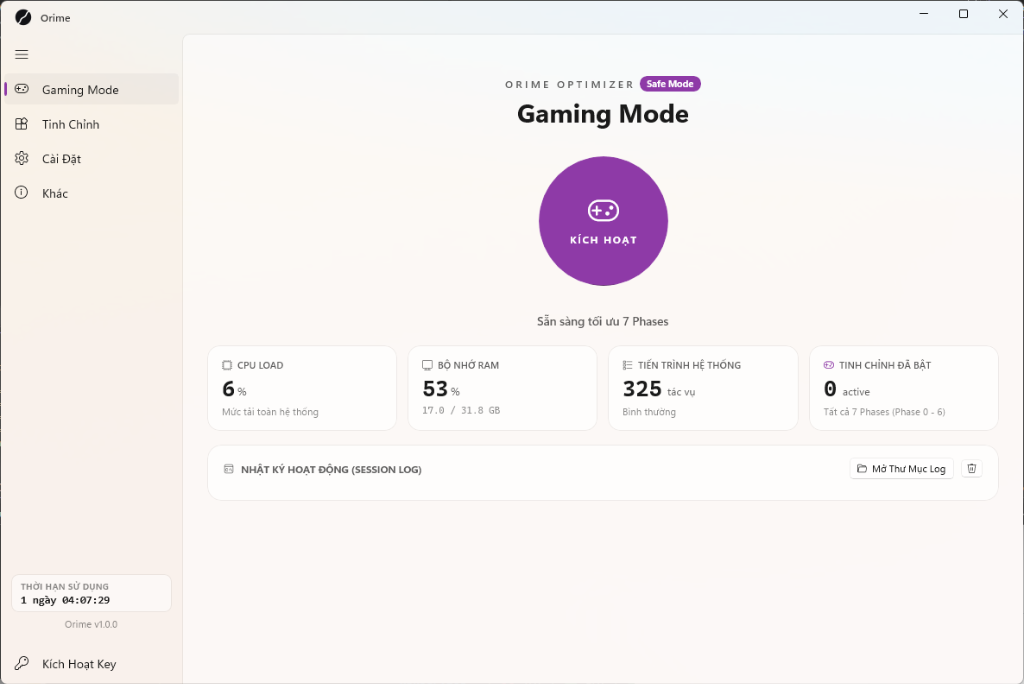
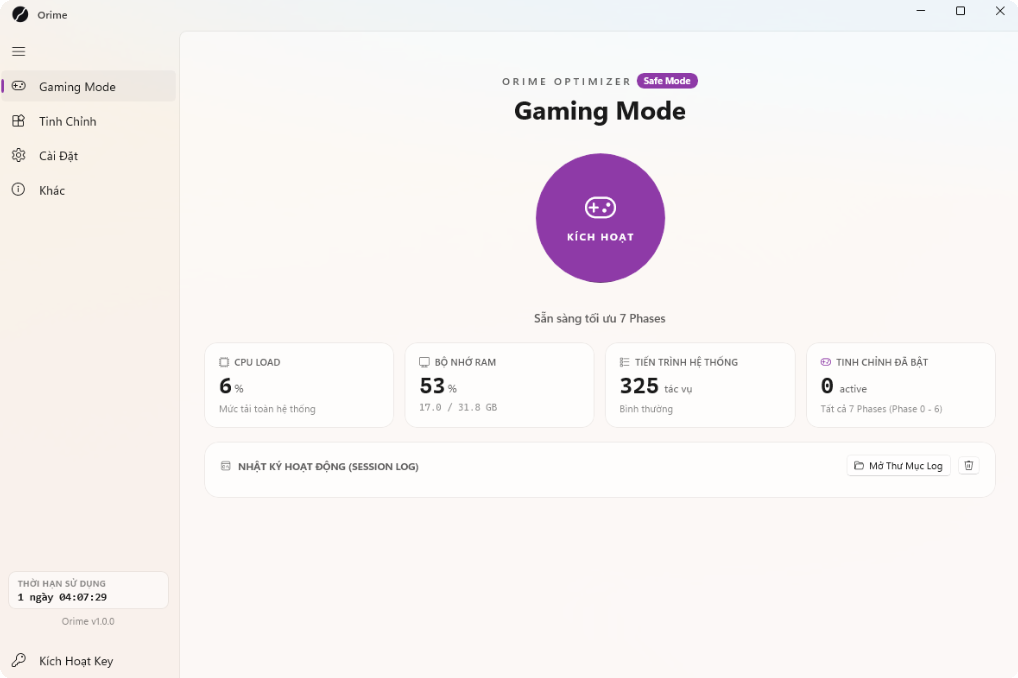
Polish screenshots (crop borders) and rewrite humanized bilingual README

diff --git a/README_VIETNAMESE.md b/README_VIETNAMESE.md
@@ -1,76 +1,74 @@
 <div align="center">
 
-# ⚡ Orime Optimizer
+# Orime Optimizer
 
-**Bộ Công Cụ Tối Ưu Hóa Hiệu Năng Windows & Gaming Chuyên Nghiệp**
+**Ứng dụng tối ưu Windows và giảm độ trễ khi chơi game, viết bằng WinUI 3 & .NET 10.**
 
-[![Nền tảng](https://img.shields.io/badge/Nền%20tảng-Windows%2010%20%7C%2011%20x64-blue?style=for-the-badge&logo=windows)](https://github.com/Nahvine/Orime-Release)
-[![Công nghệ](https://img.shields.io/badge/Công%20nghệ-WinUI%203%20%7C%20.NET%2010-purple?style=for-the-badge&logo=dotnet)](https://github.com/Nahvine/Orime-Release)
-[![Giao diện](https://img.shields.io/badge/Giao%20diện-Fluent%20Design%20System-0078D4?style=for-the-badge&logo=microsoft)](https://github.com/Nahvine/Orime-Release)
+[![Nền tảng](https://img.shields.io/badge/Windows-10%20%7C%2011%20(64--bit)-0078D4?style=flat-square&logo=windows)](https://github.com/Nahvine/Orime-Release)
+[![Công nghệ](https://img.shields.io/badge/WinUI%203-.NET%2010-512BD4?style=flat-square&logo=dotnet)](https://github.com/Nahvine/Orime-Release)
+[![Bản quyền](https://img.shields.io/badge/Bản%20quyền-Proprietary-gray?style=flat-square)](https://github.com/Nahvine/Orime-Release)
 
-[**🌐 Trang Chủ Chính Thức**](https://orime.osteup.io.vn) • [**📖 English Version**](README.md) • [**📦 Tải Bản Release Mới Nhất**](https://github.com/Nahvine/Orime-Release/releases)
+[**Trang Chủ**](https://orime.osteup.io.vn) • [**English README**](README.md) • [**Tải Bản Mới Nhất**](https://github.com/Nahvine/Orime-Release/releases)
 
 <br/>
 
-<img src="assets/gaming_mode_preview.png" alt="Orime Gaming Mode Giao Diện" width="850" style="border-radius: 12px; box-shadow: 0 10px 30px rgba(0,0,0,0.15);" />
+<img src="assets/gaming_mode_preview.png" alt="Giao diện Orime Gaming Mode" width="850" />
 
 </div>
 
 ---
 
-## 🌟 Giới Thiệu
+## Vì sao nên dùng Orime?
 
-**Orime** là ứng dụng tối ưu hóa Windows và Gaming hiện đại được xây dựng hoàn toàn bằng **WinUI 3 (Windows App SDK)** và **.NET 10**. Với kiến trúc an toàn 2 tầng và nhật ký giao dịch (Transaction Journal), Orime giúp khai thác tối đa FPS, triệt tiêu độ trễ chuột/bàn phím (Kernel Timer **0.5ms**), tự động thu hồi Gigabyte RAM rác và có khả năng **khôi phục 100% nguyên trạng hệ thống** chỉ với 1 click.
+Nhiều công cụ "tối ưu Windows" trên mạng thực chất chỉ là file `.bat` hoặc file `.reg` gom nhặt, chỉnh sửa vĩnh viễn vào hệ thống khiến Windows Update bị lỗi, hỏng dịch vụ nền hoặc gây xanh màn hình (BSOD).
+
+**Orime được thiết kế theo hướng an toàn và tôn trọng hệ thống:**
+
+1. **Khôi phục nguyên trạng 100% (Reversible)**: Trước khi tinh chỉnh bất kỳ cài đặt nào, Orime đều chụp lại trạng thái gốc của máy vào nhật ký (Journal). Khi bạn tắt Gaming Mode hoặc đóng ứng dụng, mọi thứ sẽ tự động hoàn trả về đúng như ban đầu.
+2. **Nhẹ và Native**: Viết bằng C# (.NET 10) với giao diện Fluent của WinUI 3, không dùng Electron hay bọc web nặng nề.
+3. **Thông số trung thực, không vẽ số liệu**: Không quảng cáo "tăng 500% FPS" ảo. Lượng RAM giải phóng được đo từ API hệ thống thực tế (`GlobalMemoryStatusEx`), đo ping DNS trực tiếp và hiển thị rõ ràng từng dịch vụ được xử lý.
 
 <div align="center">
-<img src="assets/tweaks_preview.png" alt="Cấu Hình Tinh Chỉnh Orime" width="850" style="border-radius: 12px; box-shadow: 0 10px 30px rgba(0,0,0,0.15);" />
+<img src="assets/tweaks_preview.png" alt="Giao diện cấu hình tinh chỉnh Orime" width="850" />
 </div>
 
 ---
 
-## ✨ 7 Phase Tối Ưu Hóa Chuyên Sâu
+## 7 Phase Tinh Chỉnh Khi Bật Gaming Mode
 
-- **🚀 Phase 0 — Đóng Băng Ứng Dụng Bên Thứ 3 & Trình Duyệt**: Tự động tạm dừng các helper ngầm, trình cập nhật, phần mềm OEM (iCUE, Armoury Crate, Razer Synapse) mà không làm mất tab duyệt web hay ứng dụng đang mở.
-- **🛡 Phase 1 — Tạm Dừng Dịch Vụ Windows Background**: Giảm tải Telemetry, Diagnostic Policy, Print Spooler ngầm với cơ chế chụp trạng thái $T_0$ an toàn.
-- **⚡ Phase 2 — Dọn Dẹp Shell Windows 11 & Tác Vụ Bảo Trì**: Đóng băng Widgets, hoãn tác vụ quét đĩa nặng nề và giải phóng bộ nhớ RAM Working Set tức thì.
-- **🌐 Phase 3 — Đo Ping Smart DNS & Tối Ưu Mạng QoS**: Tự động đo Ping Cloudflare 1.1.1.1, Google 8.8.8.8, Quad9; chuyển sang DNS thấp nhất và bật `TCP NoDelay` chống nghẽn gói tin.
-- **🖥 Phase 4 — Quản Lý Vòng Đời Windows Explorer**: Tắt hoàn toàn `explorer.exe` khi chơi game để giải phóng 150-400MB RAM & triệt tiêu độ trễ DWM; tự động mở lại khi thoát game.
-- **🔒 Phase 5 — Giảm Tải Windows Defender**: Tạm hoãn xác minh SmartScreen và quét virus thời gian thực trong phiên chơi game.
-- **⚙ Phase 6 — Tinh Chỉnh Kernel, CPU Core Parking & Power Plan**: Mở khóa sơ đồ nguồn **Ultimate Performance**, đánh thức 100% nhân CPU (Unpark Cores) và phân bổ lượng tử CPU **3:1 Quantum Boost** cho game.
+Khi bạn nhấn **KÍCH HOẠT**, Orime thực hiện tối ưu theo từng tầng rõ ràng:
 
----
-
-## 🎯 3 Chế Độ Tối Ưu Được Thiết Kế Khoa Học
-
-| Chế Độ | Đối Tượng Sử Dụng | Tính Năng Nổi Bật |
-| :--- | :--- | :--- |
-| **🟢 Safe Mode** | Người dùng phổ thông & làm việc | Chỉ dừng helper/updater, dịch vụ Low Risk, giữ nguyên chat (Discord/Zalo/Tele) và Windows Hello/Search. Bật gói nguồn Ultimate Performance. |
-| **🟣 Normal Mode** | Game thủ Esport & AAA *(Khuyên Dùng)* | Đóng băng ứng dụng thông minh, Dọn RAM Standby, Tắt Explorer khi chơi game, Timer 0.5ms, Mở khóa CPU Core Parking. |
-| **🔴 Extreme Mode** | Thi đấu chuyên nghiệp & Máy cấu hình cao | Mở khóa toàn bộ 100% 7 Phases, can thiệp dịch vụ mạng nhạy cảm và tạm hoãn Windows Defender. |
+* **Phase 0 — Đóng băng tiến trình ngầm & app phụ**: Tạm dừng các helper ngầm của trình duyệt (Chrome/Edge updater), phần mềm hãng (Razer Synapse, iCUE, Armoury Crate) để nhường toàn bộ CPU cho game. Không làm mất tab web hay đóng app đang mở.
+* **Phase 1 — Dịch vụ Windows không cần thiết**: Tạm dừng các dịch vụ theo dõi dữ liệu (Telemetry), Diagnostic Policy và dịch vụ in ấn ngầm.
+* **Phase 2 — Dọn dẹp RAM Standby & Windows 11 Shell**: Thu hồi vùng nhớ đệm rác và hoãn các tác vụ tự động bảo trì của Windows.
+* **Phase 3 — Tự động chọn DNS nhanh nhất (Smart DNS)**: Đo ping đến Cloudflare `1.1.1.1`, Google `8.8.8.8`, Quad9 và chuyển sang máy chủ có độ trễ thấp nhất. Nếu máy bạn đã tự chỉnh DNS xịn từ trước, app sẽ giữ nguyên. Bật `TCP NoDelay` để giảm giật lag mạng.
+* **Phase 4 — Tạm ẩn Windows Explorer (Tùy chọn)**: Tạm dừng `explorer.exe` trong lúc chơi game toàn màn hình để tiết kiệm 200–400MB RAM và giảm độ trễ dựng khung hình của DWM; tự động mở lại ngay khi thoát game.
+* **Phase 5 — Giảm tải quét nền**: Hạ mức ưu tiên của trình quét virus khi bạn đang trong trận game.
+* **Phase 6 — Mở khóa phần cứng & Kernel Timer**: Mở khóa gói nguồn Ultimate Performance, đánh thức 100% nhân CPU (Unpark CPU Cores) và khóa độ phân giải đồng hồ hệ thống ở mức **0.5ms** để giảm tối đa độ trễ chuột/bàn phím.
 
 ---
 
-## ⚡ Cài Đặt 1-Click Siêu Tốc (Web Installer)
+## 3 Chế Độ Lựa Chọn Nhanh
 
-Mở **PowerShell** trên máy tính của bạn và dán lệnh sau:
+* **🟢 Safe Mode**: Dành cho người dùng phổ thông, vừa chơi game vừa lướt web hoặc gọi Discord/Zalo. Chỉ dừng các helper ngầm và bật gói nguồn tối ưu mà không đụng tới ứng dụng chính.
+* **🟣 Normal Mode (Khuyên Dùng)**: Cân bằng tốt nhất cho game thủ Esport và game AAA. Bổ sung dọn RAM, timer 0.5ms và mở khóa toàn bộ nhân CPU.
+* **🔴 Extreme Mode**: Dành cho máy cấu hình yếu hoặc các trận đấu thi đấu cần vắt kiệt từng khung hình và mili-giây độ trễ.
+
+---
+
+## Cài Đặt Nhanh (1 Dòng Lệnh)
+
+Mở **PowerShell** trên Windows và dán lệnh sau:
 
 ```powershell
-powershell -ExecutionPolicy Bypass -Command "irm https://raw.githubusercontent.com/Nahvine/Orime-Release/main/install.ps1 | iex"
+irm https://raw.githubusercontent.com/Nahvine/Orime-Release/main/install.ps1 | iex
 ```
 
-Hoặc tải bản **Portable Chạy Ngay (Không Cần Cài Đặt)** trực tiếp tại [GitHub Releases](https://github.com/Nahvine/Orime-Release/releases).
+Hoặc tải bản **Portable (chạy ngay không cần cài đặt)** từ [GitHub Releases](https://github.com/Nahvine/Orime-Release/releases), giải nén và mở file `Orime.exe`.
 
 ---
 
-## 📋 Yêu Cầu Hệ Thống
+## Yêu Cầu Hệ Thống
 
-- **Hệ Điều Hành**: Windows 10 (Phiên bản 1903 trở lên) hoặc Windows 11 (64-bit x64)
-- **Kiến Trúc Phần Cứng**: x64 (Intel / AMD)
-- **Dung Lượng Trống**: ~200 MB
-
----
-
-## 📜 Bản Quyền & Giấy Phép
-
-Bản quyền thuộc về © 2026 **Orime Optimizer**.  
-Hệ Thống Phân Phối & Kích Hoạt Bản Quyền: [https://orime.osteup.io.vn](https://orime.osteup.io.vn)
+* Windows 10 (bản 1903 trở lên) hoặc Windows 11 (64-bit)
+* Khuyên dùng quyền Administrator để app có thể điều chỉnh timer kernel và dịch vụ hệ thống

diff --git a/README.md b/README.md
@@ -1,79 +1,74 @@
 <div align="center">
 
-# ⚡ Orime Optimizer
+# Orime Optimizer
 
-**The Next-Gen, High-Performance Native Windows & Game Optimization Suite**
+**A clean, reversible Windows game optimizer built with WinUI 3 and .NET 10.**
 
-[![Platform](https://img.shields.io/badge/Platform-Windows%2010%20%7C%2011%20x64-blue?style=for-the-badge&logo=windows)](https://github.com/Nahvine/Orime-Release)
-[![Framework](https://img.shields.io/badge/Framework-WinUI%203%20%7C%20.NET%2010-purple?style=for-the-badge&logo=dotnet)](https://github.com/Nahvine/Orime-Release)
-[![Design](https://img.shields.io/badge/UI-Fluent%20Design%20System-0078D4?style=for-the-badge&logo=microsoft)](https://github.com/Nahvine/Orime-Release)
-[![License](https://img.shields.io/badge/License-Proprietary-red?style=for-the-badge)](https://github.com/Nahvine/Orime-Release)
+[![Platform](https://img.shields.io/badge/Windows-10%20%7C%2011%20(64--bit)-0078D4?style=flat-square&logo=windows)](https://github.com/Nahvine/Orime-Release)
+[![Framework](https://img.shields.io/badge/WinUI%203-.NET%2010-512BD4?style=flat-square&logo=dotnet)](https://github.com/Nahvine/Orime-Release)
+[![License](https://img.shields.io/badge/License-Proprietary-gray?style=flat-square)](https://github.com/Nahvine/Orime-Release)
 
-[**🌐 Official Website**](https://orime.osteup.io.vn) • [**📖 Tiếng Việt**](README_VIETNAMESE.md) • [**📦 Download Latest Release**](https://github.com/Nahvine/Orime-Release/releases)
+[**Website**](https://orime.osteup.io.vn) • [**Bản Tiếng Việt**](README_VIETNAMESE.md) • [**Download Releases**](https://github.com/Nahvine/Orime-Release/releases)
 
 <br/>
 
-<img src="assets/gaming_mode_preview.png" alt="Orime Gaming Mode" width="850" style="border-radius: 12px; box-shadow: 0 10px 30px rgba(0,0,0,0.15);" />
+<img src="assets/gaming_mode_preview.png" alt="Orime Gaming Mode" width="850" />
 
 </div>
 
 ---
 
-## 🌟 Overview
+## Why Orime?
 
-**Orime** is a modern, enterprise-grade game optimization engine built natively with **WinUI 3 (Windows App SDK)** and **.NET 10**. Designed with a non-destructive, transaction-safe architecture, Orime unlocks maximum FPS, eliminates stutter, reduces system DPC latency to **0.5ms**, and recovers gigabytes of standby RAM—all reversibly with 1-click restore.
+Most Windows "tweakers" and "game optimizers" are just random PowerShell scripts or registry hacks that permanently break Windows Update, delete system components, or trigger anticheat flags.
+
+**Orime is built differently:**
+
+1. **100% Reversible by Design**: Before applying any tweak, Orime captures the exact original state of your services, power plans, and registry keys into a local journal. When you turn off Gaming Mode (or exit), everything rolls back cleanly to how it was.
+2. **Native & Fast**: Written in modern C# on .NET 10 with a native WinUI 3 Fluent interface. No Electron, no bloated web wrappers.
+3. **No Bullshit / Honest Metrics**: No fake "boosted 500% FPS" claims. It shows actual freed RAM from `GlobalMemoryStatusEx`, real live process counts, and real DNS latency benchmarks.
 
 <div align="center">
-<img src="assets/tweaks_preview.png" alt="Orime Tweaks Configuration" width="850" style="border-radius: 12px; box-shadow: 0 10px 30px rgba(0,0,0,0.15);" />
+<img src="assets/tweaks_preview.png" alt="Orime Tweaks Configuration" width="850" />
 </div>
 
 ---
 
-## ✨ Key Features & 7-Phase Engine
+## What Happens When You Hit "Kích Hoạt" (Activate)?
 
-Orime orchestrates system tuning through **7 dedicated optimization phases**:
+Orime runs through up to 7 structured phases:
 
-- **🚀 Phase 0 — Smart Third-Party App & Browser Freeze**: Automatically suspends background helpers, browser updaters, OEM bloatware (iCUE, Armoury Crate, Synapse) without losing your tabs.
-- **🛡 Phase 1 — Non-Destructive Windows Services Debloat**: Toggles telemetry, diagnostic tracking, and background services with pre-capture state snapshots.
-- **⚡ Phase 2 — Windows 11 Shell & Maintenance Purge**: Halts Widgets, OneDrive sync, GameDVR, and triggers real-time Working Set RAM cleanup.
-- **🌐 Phase 3 — Smart DNS Benchmark & Network QoS**: Benchmarks Cloudflare, Google, and Quad9 in real-time, applies lowest-latency DNS with `TCP NoDelay` and `NetworkThrottlingIndex` disabled.
-- **🖥 Phase 4 — Explorer Shell Lifecycle**: Closes `explorer.exe` during gameplay to free 150-400MB RAM & eliminate DWM frame latency; seamlessly relaunches on exit.
-- **🔒 Phase 5 — Security & Antimalware Tuning**: Temporarily suppresses SmartScreen verification and real-time scanning overhead during gaming sessions.
-- **⚙ Phase 6 — Kernel Scheduler & Hardware Power Scheme**: Activates the hidden **Ultimate Performance** power plan, unparks 100% CPU cores, and forces **3:1 Win32 Priority Quantum Boost**.
-
----
-
-## 🎯 3 Curated Optimization Profiles
-
-| Preset | Target User | What's Included |
-| :--- | :--- | :--- |
-| **🟢 Safe Mode** | Everyday users & casual gamers | Helper apps only, low-risk services, Ultimate Power plan. Preserves full browsers, chat (Discord/Zalo/Telegram), and Windows Search/Hello. |
-| **🟣 Normal Mode** | Esport & AAA Gamers (Recommended) | Full app freeze with launcher smart-checks, RAM memory purge, Explorer lifecycle, 0.5ms kernel timer, and CPU core unparking. |
-| **🔴 Extreme Mode** | Competitive & Tournament Play | 100% maximum power unlocking, sensitive network service suspension, and full real-time antimalware pause. |
+* **Phase 0 — App & Browser Suspension**: Temporarily freezes heavy background helpers and OEM bloatware (Chrome/Edge updater helpers, Razer Synapse, Discord helpers) so they stop eating CPU cycles while you play. Your open tabs remain intact.
+* **Phase 1 — Non-Essential Services**: Pauses background telemetry, diagnostic tracing, and spooler tasks.
+* **Phase 2 — Windows 11 Shell Tuning**: Cleans up standby RAM (working sets) and pauses background indexing.
+* **Phase 3 — Smart DNS Routing & Latency**: Tests ping against top DNS providers (Cloudflare `1.1.1.1`, Google `8.8.8.8`, Quad9) and applies the fastest one. If your DNS is already optimal, it leaves it alone. Enables `TCP NoDelay`.
+* **Phase 4 — Explorer Shell Lifecycle (Optional)**: Can temporarily halt `explorer.exe` to free up 200–400MB RAM and eliminate DWM composition latency during full-screen games, then automatically brings it back.
+* **Phase 5 — Antimalware Quiet Mode**: Lowers defender background scan priority during active game sessions.
+* **Phase 6 — Power & CPU Quantum**: Unparks CPU cores, activates the Ultimate Performance power scheme, and locks timer resolution to 0.5ms for lowest input lag.
 
 ---
 
-## ⚡ 1-Click Fast Web Installer
+## 3 Simple Modes
 
-Open **PowerShell** (as Administrator or normal user) and run:
+* **Safe Mode**: Great for casual gaming and streaming. Pauses background updaters and enables power tweaks without touching web browsers, Discord, or system search.
+* **Normal Mode (Recommended)**: The sweet spot for esports and AAA titles. Adds RAM purging, smart app freezing, 0.5ms timer, and CPU core unparking.
+* **Extreme Mode**: For tournament matches or low-spec systems where every frame and millisecond matters.
+
+---
+
+## Quick Install
+
+Open **PowerShell** and run:
 
 ```powershell
-powershell -ExecutionPolicy Bypass -Command "irm https://raw.githubusercontent.com/Nahvine/Orime-Release/main/install.ps1 | iex"
+irm https://raw.githubusercontent.com/Nahvine/Orime-Release/main/install.ps1 | iex
 ```
 
-Or download the **Standalone Portable Edition (Zero Installation)** directly from [GitHub Releases](https://github.com/Nahvine/Orime-Release/releases).
+Or grab the standalone zip from [GitHub Releases](https://github.com/Nahvine/Orime-Release/releases) (unzip and double-click `Orime.exe`).
 
 ---
 
-## 📋 System Requirements
+## System Requirements
 
-- **Operating System**: Windows 10 (Version 1903+) or Windows 11 (64-bit x64)
-- **Runtime**: Windows App SDK 1.6+ (Embedded self-contained in Portable edition)
-- **Architecture**: x64 (AMD64 / Intel 64)
-
----
-
-## 📜 License & Copyright
-
-Copyright © 2026 **Orime Optimizer**. All rights reserved.  
-Official Gateway & License Management: [https://orime.osteup.io.vn](https://orime.osteup.io.vn)
+* Windows 10 (version 1903+) or Windows 11 (64-bit)
+* Administrator privileges recommended for service and kernel timer adjustments
